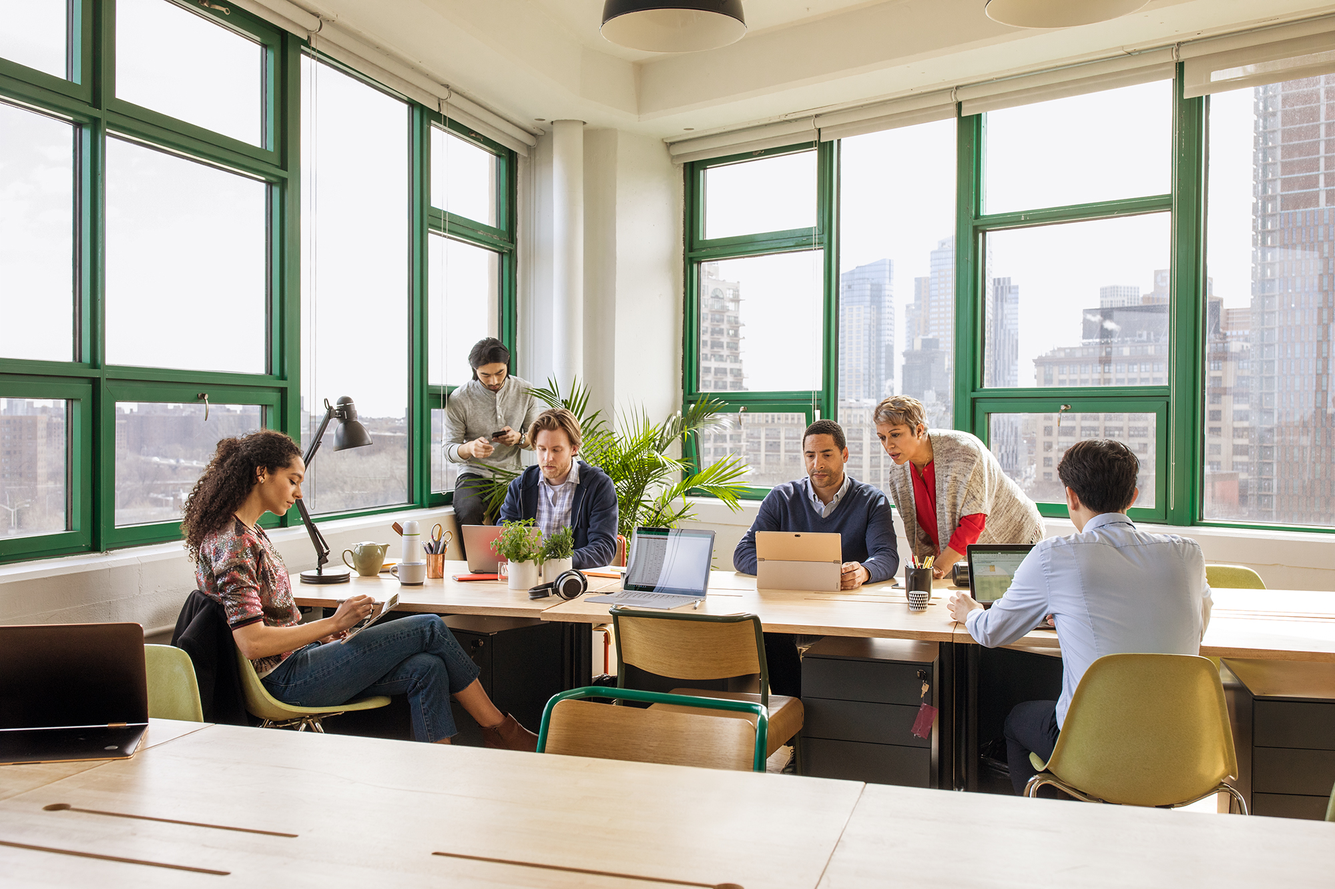
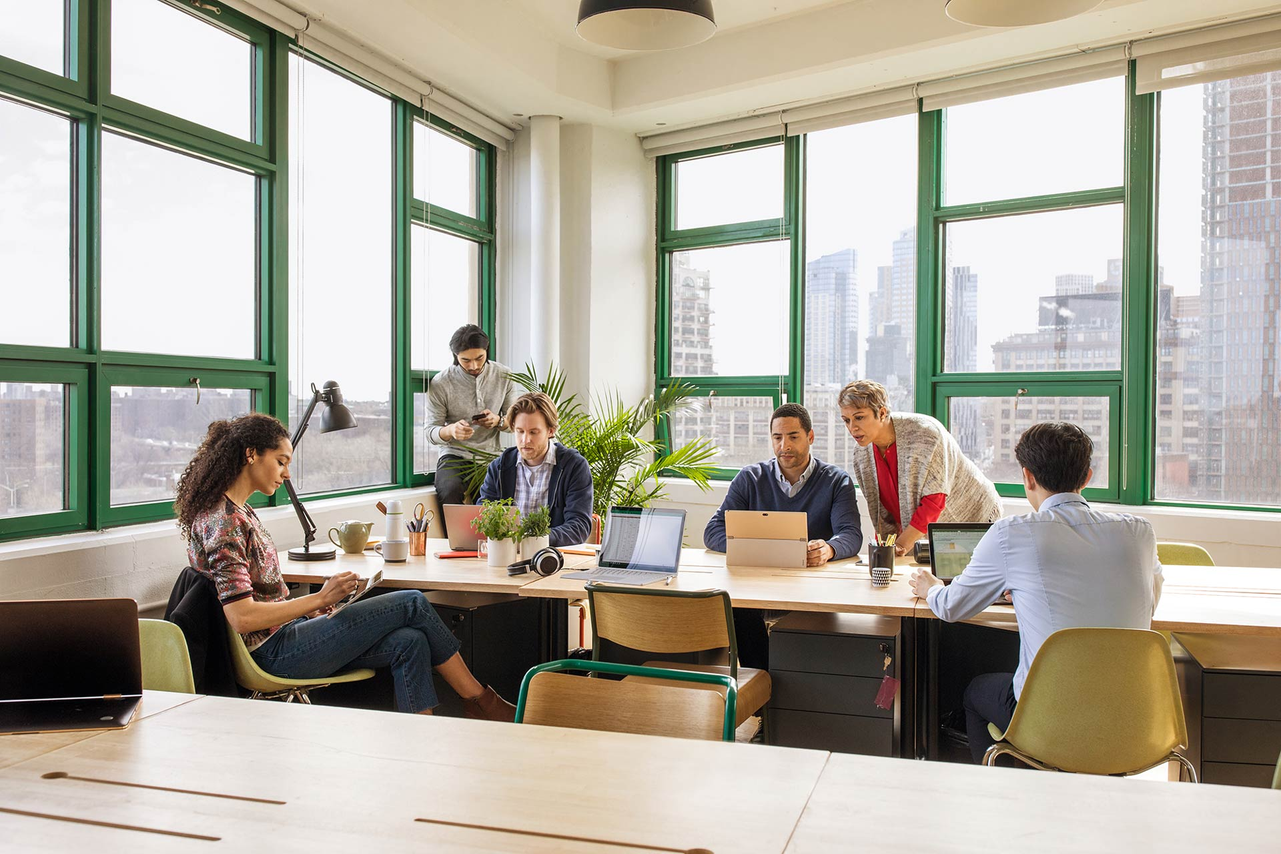
Changed pictures to compressed version Enabled GZIP file transmission

Changed region(s): [[0.4375, 0.4688, 0.5625, 0.5938]]

diff --git a/index.html b/index.html
@@ -120,11 +120,13 @@
                 <h2>
                     Apply now and become part of a country-wide network of Tech Enthusiasts!
                 </h2>
-                <div class="apply-btn">Apply now</div>
+                <div class="apply-btn" onclick='window.location.href = "https://forms.office.com/Pages/ResponsePage.aspx?id=v4j5cvGGr0GRqy180BHbR_nuCpXHN8lJj1Ws0_BPX8NURFIxVFhWMUVCSEtCSVVSWEE3N1BMTjY4Si4u";'>Apply now</div>
             </div>
         </section>
     </div>
     <script>
+        // document.getElementsByClassName("apply-btn")[0].onclick = "window.location.href = 'https://forms.office.com/Pages/ResponsePage.aspx?id=v4j5cvGGr0GRqy180BHbR_nuCpXHN8lJj1Ws0_BPX8NURFIxVFhWMUVCSEtCSVVSWEE3N1BMTjY4Si4u';"
+
         var sections = document.getElementsByTagName("section");
         var counter = 0; //Counter to set the navigation anchors in the script
         for (var i = 0; i < sections.length; i++) {

diff --git a/css/index.css b/css/index.css
@@ -60,10 +60,10 @@ body {
 }
 .picturebox.inspire {
     height: 40vh;
-    background-image: url("/assets/inspire.png");
+    background-image: url("/assets/inspire.jpg");
 }
 .picturebox.learn {
-    background-image: url("/assets/learn.png");
+    background-image: url("/assets/learn.jpg");
 }
 .picturebox.develop {
     background-image: url("/assets/develop.png");

diff --git a/index.js b/index.js
@@ -1,5 +1,8 @@
 const express = require("express");
 const app = express();
+const compression = require("compression");
+
+app-use(compression());
 
 app.use("/js",express.static("js"));
 app.use("/css",express.static("css"));
